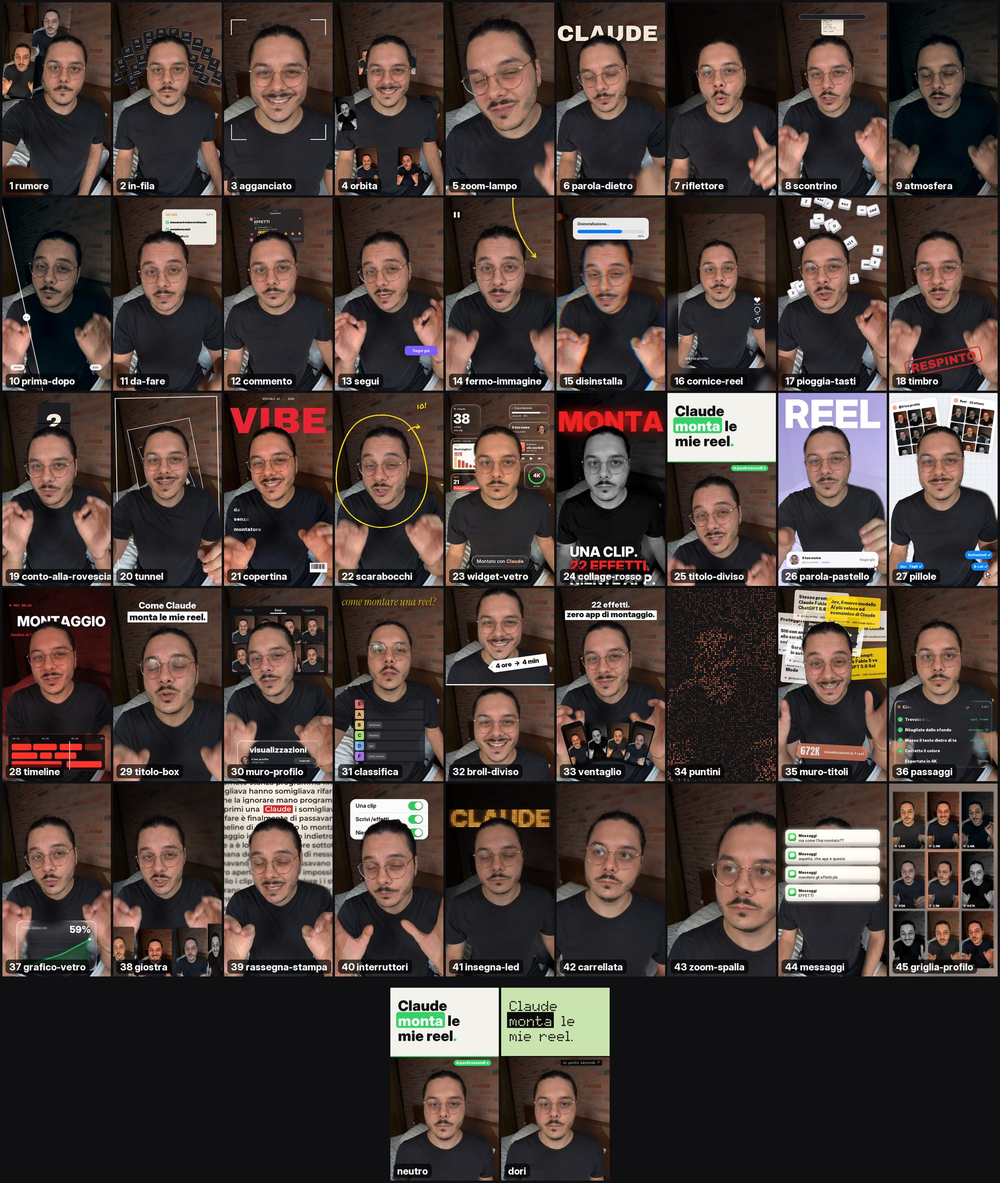
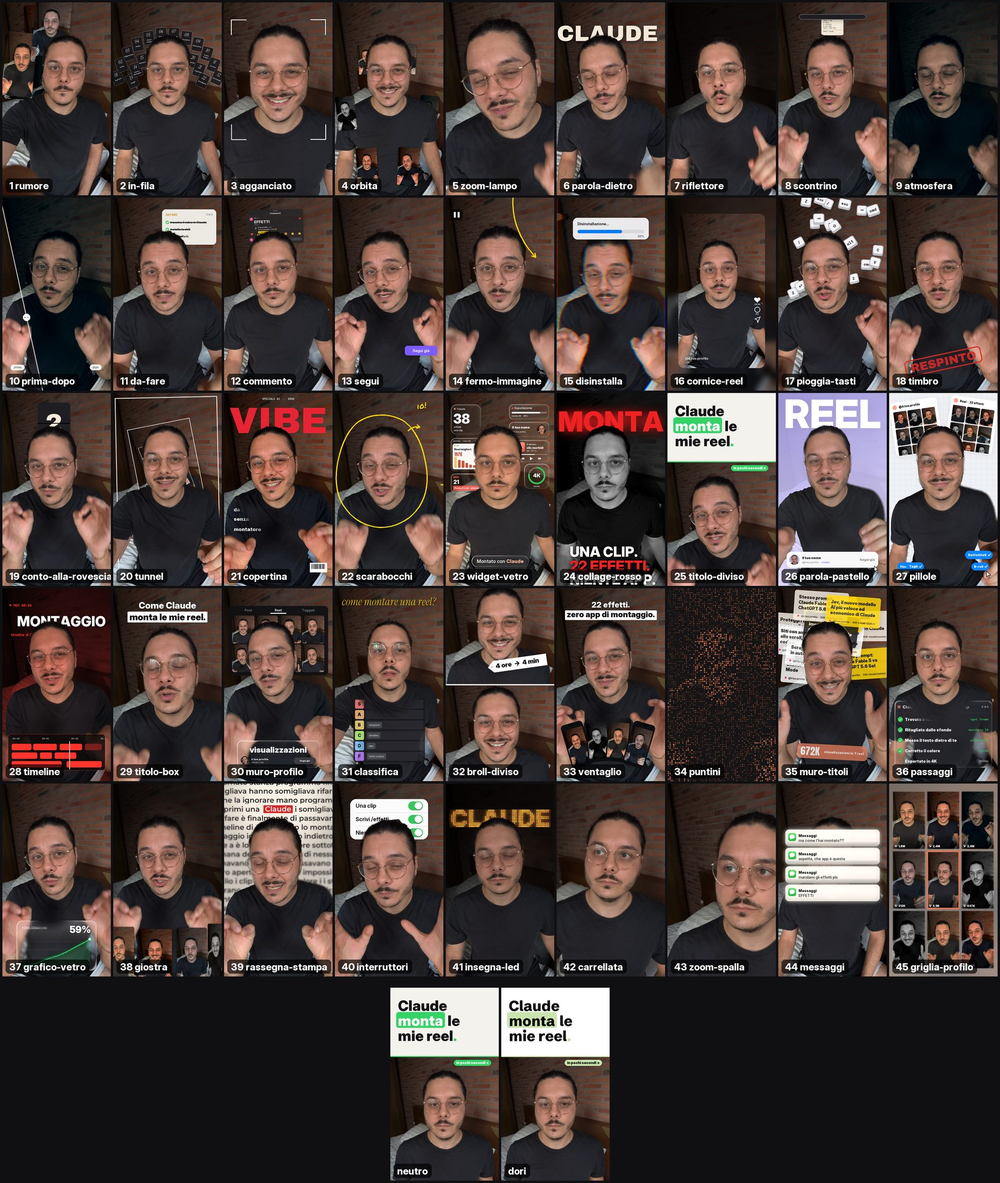
dori theme changes only colour; text on glass and pastel text on light cards stay readable
The dori example theme now keeps every effect's own layout (corners, glass, glow,
shadows, gradients) and changes only its colours, from the Dori design system's
fx-* tokens: white cards with ink text, near-black panels with white text, white
over the footage, the pale sage and its pastels (lilac, rose, leaf) on accents.
Matrix Sans Screen only for the big display type; UI text in Schibsted Grotesk.
A flat one-to-one map onto sage and ink was monotonous and less readable.

Two fixes it surfaced, neutral look unchanged (tests/confronto.py: max diff 0 on
every touched effect):
- draw.on_glass(): text and marks on a glass() panel take 'over' while the theme
  has glass (the panel is see-through over the footage) and 'on-surface' without
  it. A theme with ink on-surface turned the type on dark glass black. Used in
  widget-vetro, grafico-vetro, zoom-spalla, passaggi and muro-profilo.
- da-fare's title and widget-vetro's 197K pass on='surface', so a pastel accent
  that would read under 3:1 on a white card falls back to ink.

SKILL.md: a theme should usually change only the colours. Preview regenerated.

Changed region(s): [[0.4971, 0.8125, 0.6213, 0.9062]]

diff --git a/effetti/fx/widget_vetro.py b/effetti/fx/widget_vetro.py
@@ -39,7 +39,7 @@ def glass_widgets_v1(c, e):
     pre, hi = pill.split('|') if '|' in pill else (pill, '')
     tw = f1.getlength(pre) + f2.getlength(hi); ph = W * 0.105; pw = tw + ph * 0.9; py = c.H * 0.865
     q = glass(c, pw, ph, ph / 2, W / 2, py, amt=0.16, tint=(70, 70, 76)); d = ImageDraw.Draw(q)
-    d.text(((pw - tw) / 2, ph / 2), pre, font=f1, fill=P.c('on-surface', (255, 255, 255), 255), anchor='lm')
+    d.text(((pw - tw) / 2, ph / 2), pre, font=f1, fill=on_glass((255, 255, 255), 255), anchor='lm')
     d.text(((pw - tw) / 2 + f1.getlength(pre), ph / 2), hi, font=f2, fill=P.c('accent', (255, 176, 146), 255), anchor='lm')
     place(c, shadowed(q, 14, 6, 70), W / 2, py, 0.7 + 0.3 * pop(c, 0.4), 0, al * clamp((c.lt - 0.4) / 0.1), guard=True)
 
@@ -50,7 +50,7 @@ def glass_widgets_v2(c, e):
     k0 = ramp(c, e, 0.3, 0)
     if e.o.get('grade', 'warm') != 'none': c.img = c.img * (1 - 0.6 * k0) + grade(c.img, e.o.get('grade', 'warm')) * 0.6 * k0
     al = fade(c, e); gd = float(e.o.get('dark', 0.22))
-    white = P.c('on-dark' if gd >= 0.3 else 'on-surface', (255, 255, 255))   # text and marks on the glass (a card without glass)
+    white = P.c('on-dark', (255, 255, 255)) if gd >= 0.3 else on_glass((255, 255, 255))   # text and marks on the glass (a card without glass)
     track = P.c('line', (255, 255, 255))
     def bob(i): return 6 * u * math.sin(2 * math.pi * (c.lt * 0.55 + i * 0.17))
     def show(im, x, y, i, front=False):
@@ -91,7 +91,7 @@ def glass_widgets_v2(c, e):
     di = ImageDraw.Draw(inn); iw, ih = inn.size
     for j in range(3): di.ellipse([14 * u + j * 16 * u, 14 * u, 24 * u + j * 16 * u, 24 * u], fill=(P.c('danger', (255, 95, 87)), P.c('accent2', (255, 189, 46)), P.c('success', (40, 200, 64)))[j] + (255,))
     di.text((16 * u, 40 * u), tr('Reel migliori', 'Top reels'), font=font('uib', 26 * u), fill=P.c('on-surface', (24, 22, 26), 255))
-    di.text((16 * u, 72 * u), '197K', font=font('anton', 44 * u), fill=P.c('accent', (200, 85, 61), 255))
+    di.text((16 * u, 72 * u), '197K', font=font('anton', 44 * u), fill=P.c('accent', (200, 85, 61), 255, on='surface'))
     vals = [197, 140, 124, 83, 50, 40, 38]; gx0, gx1, gy1 = 16 * u, iw - 16 * u, ih - 18 * u; bwid = (gx1 - gx0) / 7 * 0.66
     for j, v in enumerate(vals):
         q = ease_out((c.lt - 0.35 - 0.05 * j) / 0.4); hh = (ih * 0.42) * v / 197 * q; x0 = gx0 + (gx1 - gx0) * j / 7
@@ -142,7 +142,7 @@ def glass_widgets_v2(c, e):
     f1, f2 = font('uim', W * 0.045), font('uib', W * 0.045); pre, hi = tr('Montato con ', 'Edited by '), 'Claude'
     tw = f1.getlength(pre) + f2.getlength(hi); ph = W * 0.105; pw = tw + ph * 0.9; py = H * 0.875
     q = glass(c, pw, ph, ph / 2, W / 2, py, amt=0.16, tint=(70, 70, 76)); d = ImageDraw.Draw(q)
-    d.text(((pw - tw) / 2, ph / 2), pre, font=f1, fill=P.c('on-surface', (255, 255, 255), 255), anchor='lm')
+    d.text(((pw - tw) / 2, ph / 2), pre, font=f1, fill=on_glass((255, 255, 255), 255), anchor='lm')
     d.text(((pw - tw) / 2 + f1.getlength(pre), ph / 2), hi, font=f2, fill=P.c('accent', (255, 176, 146), 255), anchor='lm')
     show(shadowed(q, 14, 6, 70), W / 2, py, 7, front=True)
 

diff --git a/effetti/fx/muro_profilo.py b/effetti/fx/muro_profilo.py
@@ -22,7 +22,7 @@ def fx_profile_wall(c, e):
     # a dark glass card; a theme without glass gets glass()'s flat surface card, so the type on it is on-surface
     g = glass(c, cw, chh, chh * 0.18, W / 2, cy, amt=0.5, tint=(12, 12, 14)); d = ImageDraw.Draw(g)
     target = int(e.o.get('count', 197000)); n = int(target * ease_out((c.lt - 0.2) / 0.8))
-    swap = clamp((c.lt - 1.15) / 0.2); ink = P.c('on-surface', (255, 255, 255))
+    swap = clamp((c.lt - 1.15) / 0.2); ink = on_glass((255, 255, 255))
     if swap < 1: d.text((cw / 2, chh * 0.33), num(f'{n:,}'), font=font('uib', chh * 0.3), fill=ink + (int(255 * (1 - swap)),), anchor='mm')
     if swap > 0:
         lab = e.o.get('label', tr('visualizzazioni', 'views')); fl = fontfor('uib', chh * 0.3, lab)
@@ -35,5 +35,5 @@ def fx_profile_wall(c, e):
     on = c.lt >= e.d * 0.7
     d.rounded_rectangle([cw - chh * 0.95, chh * 0.62, cw - chh * 0.14, chh * 0.86], P.r(chh * 0.12), fill=(P.c('line', (60, 60, 66), 255) if on else P.c('accent', (255, 255, 255), 255)))
     d.text((cw - chh * 0.545, chh * 0.74), tr('Segui già', 'Following') if on else tr('Segui', 'Follow'), font=font('uib', chh * 0.08),
-           fill=(P.c('on-surface', (255, 255, 255), 255) if on else P.c('on-accent', (16, 16, 18), 255)), anchor='mm')
+           fill=(on_glass((255, 255, 255), 255) if on else P.c('on-accent', (16, 16, 18), 255)), anchor='mm')
     place(c, g, W / 2, cy + (1 - ease_out((c.lt - 0.05) / 0.3)) * H * 0.1, 1, 0, al * clamp((c.lt - 0.05) / 0.12), guard=True)

diff --git a/effetti/fx/grafico_vetro.py b/effetti/fx/grafico_vetro.py
@@ -92,7 +92,7 @@ def fx_liquid_glass_graph(c, e):
             (np.clip(1 - np.linspace(0, 1, gh) * 2.2, 0, 1)[:, None] * np.ones(gw) * 46).astype(np.uint8)]), 'RGBA'))
         hm = Image.new('L', (gw, gh), 0); ImageDraw.Draw(hm).rounded_rectangle([0, 0, gw - 1, gh - 1], int(P.r(gh * 0.12)), fill=255)
         hl = hi.copy(); hl.putalpha(Image.fromarray(np.minimum(np.asarray(hi)[..., 3], np.asarray(hm)))); im.alpha_composite(hl)
-    ink = P.c('on-surface', (255, 255, 255))   # light glass (a light card without glass)
+    ink = on_glass((255, 255, 255))   # light glass (a light card without glass)
     lay = Image.new('RGBA', (gw, gh), (0, 0, 0, 0)); d = ImageDraw.Draw(lay); pad = gw * 0.07
     g = ease_inout((c.lt - 0.25) / max(0.3, e.d * 0.72))
     lab = e.o.get('text', tr('FIDELIZZAZIONE', 'RETENTION')).upper()

diff --git a/effetti/fx/da_fare.py b/effetti/fx/da_fare.py
@@ -15,7 +15,7 @@ def fx_todo(c, e):
     im = rrect(cw, pad * 2 + lh * (len(items) + 1), cw * 0.07, P.c('surface', (250, 248, 242), 235)); d = ImageDraw.Draw(im)
     done = sum(c.lt >= t for t in ticks)
     title = e.o.get('title', tr('DA FARE', 'TO DO')).upper(); count = tr(f'{done} di {len(items)}', f'{done} of {len(items)}')
-    d.text((pad, pad), title, font=fontfor('ui', lh * 0.42, title), fill=P.c('accent2', (200, 140, 20), 255))
+    d.text((pad, pad), title, font=fontfor('ui', lh * 0.42, title), fill=P.c('accent2', (200, 140, 20), 255, on='surface'))
     d.text((cw - pad, pad), count, font=font('ui', lh * 0.36), fill=P.c('muted', (120, 120, 120), 255), anchor='ra')
     ink = P.c('on-surface', INK) + (255,)
     for i, it in enumerate(items):

diff --git a/effetti/fx/zoom_spalla.py b/effetti/fx/zoom_spalla.py
@@ -55,7 +55,7 @@ def glass_graph(c, cx, cy, k, prog, label, value, kind, scale=1.0):
     lab, big = fontfor('uim', 44 * v, label.upper()), font('uib', 170 * v)
     num, suf, dec = split_num(value); txt = num_text(f'{num * ease_out(prog):.{dec}f}') + suf
     xx = o + 64 * v
-    ink = P.c('on-surface', (255, 255, 255))   # on the glass (a surface card without glass)
+    ink = on_glass((255, 255, 255))   # on the glass (a surface card without glass)
     for chh in label.upper(): d.text((xx, o + 64 * v), chh, font=lab, fill=ink + (235,)); xx += lab.getlength(chh) + 9 * v
     d.text((o + w - 70 * v - big.getlength(txt), o + 40 * v), txt, font=big, fill=ink + (255,))
     gx0, gx1, gy0, gy1 = o + 64 * v, o + w - 64 * v, o + 290 * v, o + h - 80 * v

diff --git a/effetti/draw.py b/effetti/draw.py
@@ -323,6 +323,14 @@ def glass(c, w, h, r, cx, cy, amt=0.22, tint=(255, 255, 255), blur=None, alpha=2
     return im
 
 
+def on_glass(neutral, a=None):
+    """Text and marks on a glass() panel. With glass on, the panel is see-through over the footage, so they
+    take 'over'; without glass it is a flat surface card, so they take 'on-surface'. Both are white in the
+    neutral look, so this only changes themed renders (a theme with a light surface and ink text turned
+    the type on dark glass black, 2026-10-28)."""
+    return P.c('over' if P.glass else 'on-surface', neutral, a)
+
+
 def face_chip(c, e, size):
     """A round avatar cut from your own face (grabbed once, at the start of the effect)."""
     def grab():

diff --git a/effetti/fx/passaggi.py b/effetti/fx/passaggi.py
@@ -17,7 +17,7 @@ def fx_checklist(c, e):
     span = max(0.4, e.d - 0.55); done_at = [0.3 + span * (i + 1) / n for i in range(n)]
     g = glass(c, cw, chh, 40 * u, W / 2, cy, amt=0.78, tint=(14, 13, 16), blur=int(30 * u)); d = ImageDraw.Draw(g)
     # dark=0, so without glass the panel is a surface card: its text is on-surface
-    ink, grey, spark, ok = P.c('on-surface', (255, 255, 255)), P.c('muted', (170, 170, 176)), P.c('accent', (217, 119, 87)), P.c('success', (52, 199, 89))
+    ink, grey, spark, ok = on_glass((255, 255, 255)), P.c('muted', (170, 170, 176)), P.c('accent', (217, 119, 87)), P.c('success', (52, 199, 89))
     sx, sy = 44 * u, hh / 2
     for a in range(4):
         ang = a * math.pi / 2 + math.pi / 4

diff --git a/SKILL.md b/SKILL.md
@@ -49,7 +49,7 @@ Senza tema gli effetti hanno il look originale (`neutro`). Con `--tema` prendono
 
 Se l'utente vuole i suoi colori:
 1. **Prendi il design system.** Se ti dà un link claude.ai, leggi con lo strumento degli artifact `project/README.md`, `project/tokens.json`, i file dei caratteri che `tokens.json` elenca in `type.fonts[].file` e le loro licenze. Altrimenti chiedigli il `tokens.json` (o la cartella del design system). Salva tutto in `temi/<nome>/`: `tokens.json`, `fonts/`, `licenses/`.
-2. **Scrivi `temi/<nome>/tema.json`.** Dai a ogni ruolo il token giusto (tabella dei ruoli in `docs/design-system.md`), scegli un carattere per gruppo (`display`, `ui`, `serif`, `mono`, `hand`) e imposta `stile` seguendo le regole del suo README: angoli vivi → `"raggio": 0`; niente ombre, vetro, bagliori o sfumature → `false` per ognuno. Se il design system ha più temi (chiaro/scuro, o varianti), usa `colori_tema` e `caratteri_tema` per le differenze.
+2. **Scrivi `temi/<nome>/tema.json`.** Dai a ogni ruolo il token giusto (tabella dei ruoli in `docs/design-system.md`), scegli un carattere per gruppo (`display`, `ui`, `serif`, `mono`, `hand`) e imposta `stile` seguendo le regole del suo README: angoli vivi → `"raggio": 0`; niente ombre, vetro, bagliori o sfumature → `false` per ognuno. Di solito però è meglio cambiare **solo i colori** e tenere la forma degli effetti (angoli, vetro, ombre): rende di più. Se il design system ha una sezione sugli effetti (come `temi/dori`, che tiene la forma originale), segui quella. Tieni le schede chiare e il testo scuro dove l'originale li ha, e metti i colori del brand sugli accenti: un colore pastello su una scheda bianca non si legge. Se il design system ha più temi (chiaro/scuro, o varianti), usa `colori_tema` e `caratteri_tema` per le differenze.
 3. **Controlla.** Un fotogramma di prova con `--tema temi/<nome>` (e `--variante <tema>` se serve) su un effetto per famiglia: una scheda (`da-fare`), un'interfaccia (`commento`), una parola dietro (`parola-dietro`), una stanza (`parola-pastello`). Il testo deve leggersi; se un colore stona, cambia la mappa, non gli effetti.
 
 Le schermate vere restano dei loro colori: il tema cambia la grafica, non le reel o le pagine che ci metti dentro.

diff --git a/docs/design-system.md b/docs/design-system.md
@@ -90,4 +90,4 @@ Controlla il contrasto delle coppie che contano: `on-surface` su `surface`, `on-
 
 ## L'esempio: temi/dori
 
-Il design system di Andrea Dorizza, esportato com'è da claude.ai. Ha un tema solo, `dori`, con una palette per tutto: carta bianca, inchiostro e il verde salvia. La mappa dei ruoli sta nel design system stesso, un token `fx-*` per ruolo (`fx-surface`, `fx-on-surface`...), e `tema.json` li prende uno a uno. Negli effetti le schede (`surface`, `ground`) sono salvia col testo in inchiostro; il segnale (`accent`, `success`, `danger`) e le schede scure (`dark`) sono inchiostro col salvia sopra; il testo sopra il video (`over`) è salvia; la carta stampata (`paper`) è bianca. Tutti i gruppi di caratteri usano Matrix Sans Screen. Angoli vivi e ombre morbide, niente vetro, bagliori o sfumature. Guardalo per vedere una mappa completa.
+Il design system di Andrea Dorizza, esportato com'è da claude.ai. Ha un tema solo, `dori`: carta bianca, inchiostro, il verde salvia come accento e i suoi pastelli (lilla, rosa, foglia). La mappa dei ruoli sta nel design system stesso, un token `fx-*` per ruolo (`fx-surface`, `fx-on-surface`...), e `tema.json` li prende uno a uno. È un esempio di tema che cambia **solo i colori**: gli effetti tengono angoli, vetro, bagliori, ombre e sfumature originali. Le schede (`surface`) restano bianche col testo in inchiostro, quelle scure (`dark`) quasi nere col testo bianco, il testo sul video (`over`) bianco; il salvia va sugli accenti (`accent`), il lilla sul secondo evidenziatore (`accent2`), il rosa su timbri e cuori (`danger`). Matrix Sans Screen solo per le scritte grandi (`display`); il testo piccolo (`ui`) è in Schibsted Grotesk. Un colore pastello non regge un testo su una scheda bianca: dove serve, l'effetto passa all'inchiostro da solo (`P.c(..., on='surface')`). Guardalo per vedere una mappa completa.

diff --git a/README.md b/README.md
@@ -118,7 +118,7 @@ Se hai un design system fatto con Claude, dai il link a Claude e scrivi: *"usa i
 /effetti da-fare dal 2 al 6, col tema dori
 ```
 
-Come funziona e come si scrive un tema a mano: [docs/design-system.md](docs/design-system.md). C'è un esempio completo, `temi/dori`, il mio design system. Ha un tema solo, `dori`: schede verde salvia col testo nero, il nero come colore di accento, il testo sul video in salvia e Matrix Sans Screen ovunque.
+Come funziona e come si scrive un tema a mano: [docs/design-system.md](docs/design-system.md). C'è un esempio completo, `temi/dori`, il mio design system. Ha un tema solo, `dori`: gli effetti tengono la loro forma e cambiano solo i colori, con schede bianche, il verde salvia e i suoi pastelli sugli accenti, e Matrix Sans Screen solo per le scritte grandi.
 
 ## Aggiungere effetti
 
